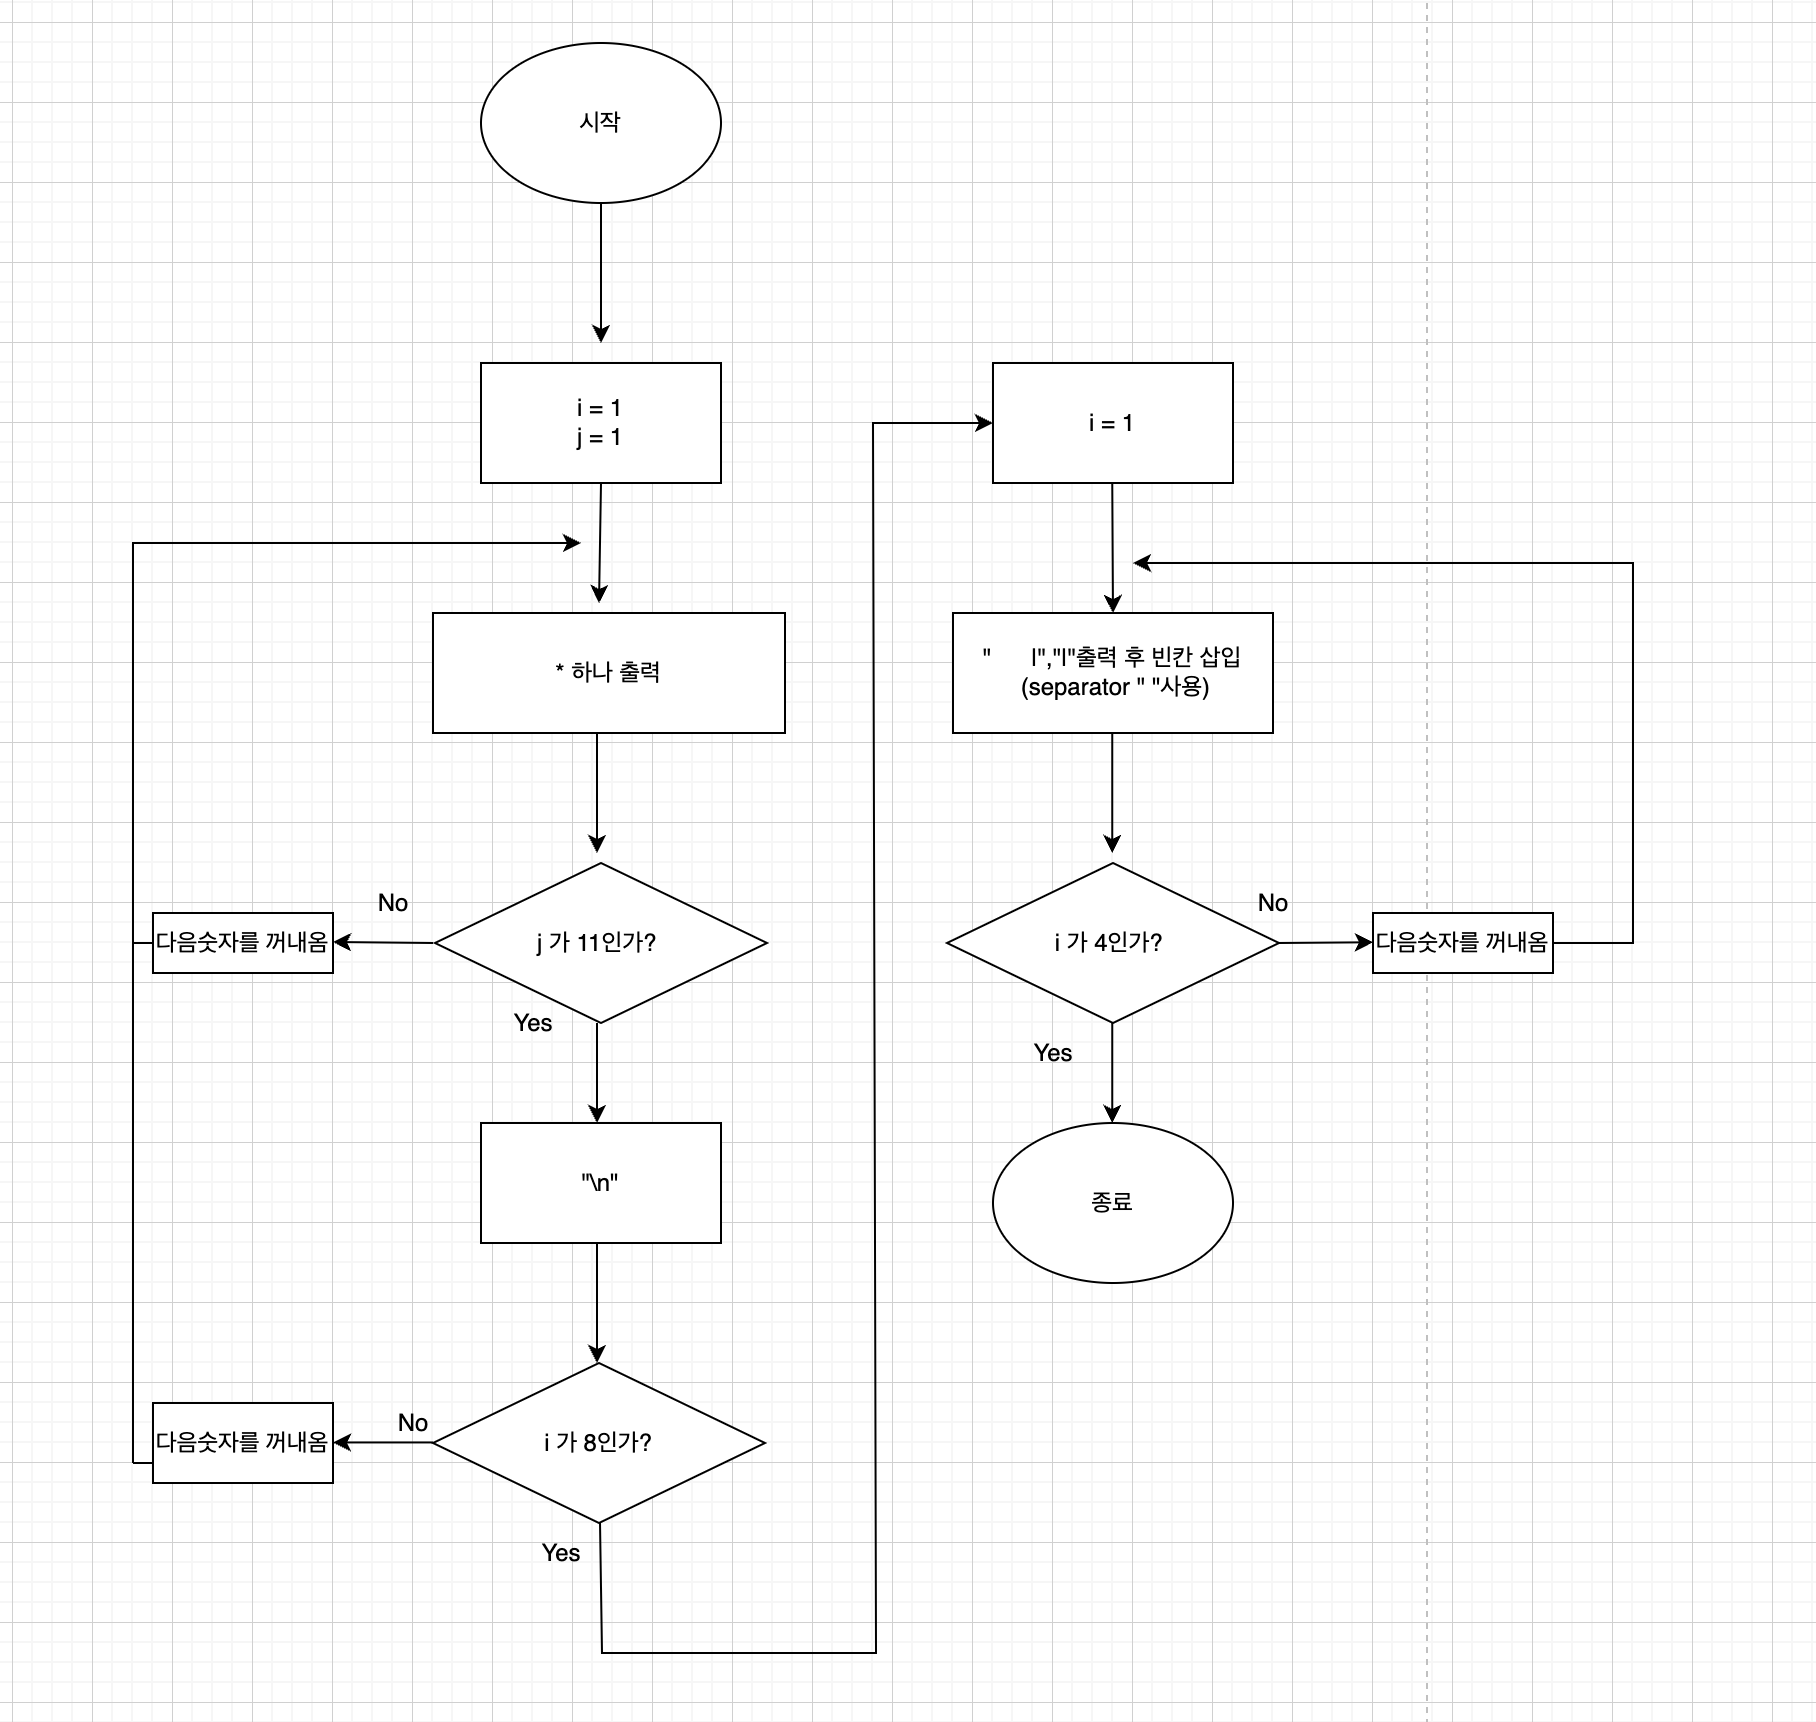
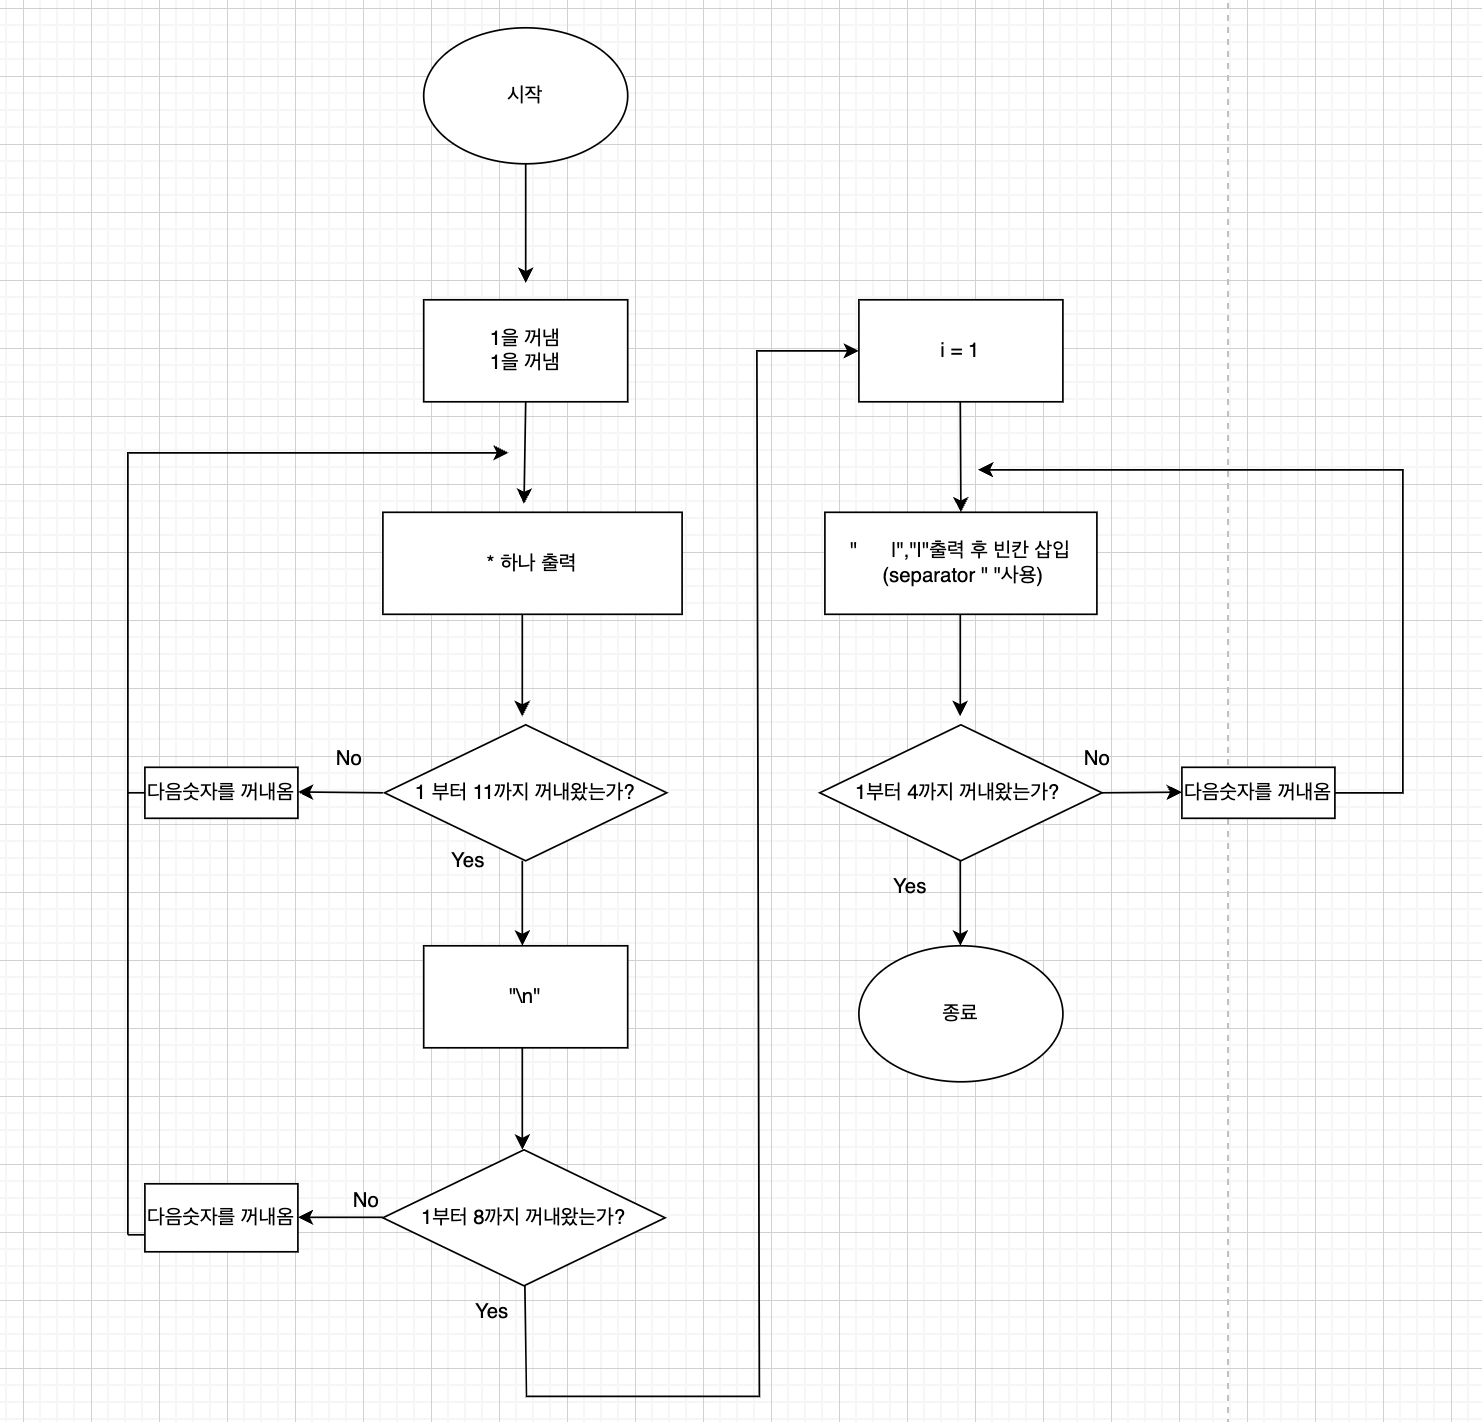
피드백 받은 대로 수정

diff --git a/CodeStarterCamp_Week1/main.swift b/CodeStarterCamp_Week1/main.swift
@@ -9,16 +9,16 @@
 import Foundation
 
 func myHead(){
-    for i in 1...8{
-        for j in 1...11{
+    for _ in 1...8{
+        for _ in 1...11{
             print("*",terminator: "")
         }
         print()
     }
 }
 func myBody(){
-    for i in 1...4{
-        print("    |","|",separator: " ")
+    for _ in 1...4{
+        print("    |","|")
     }
 }
 
